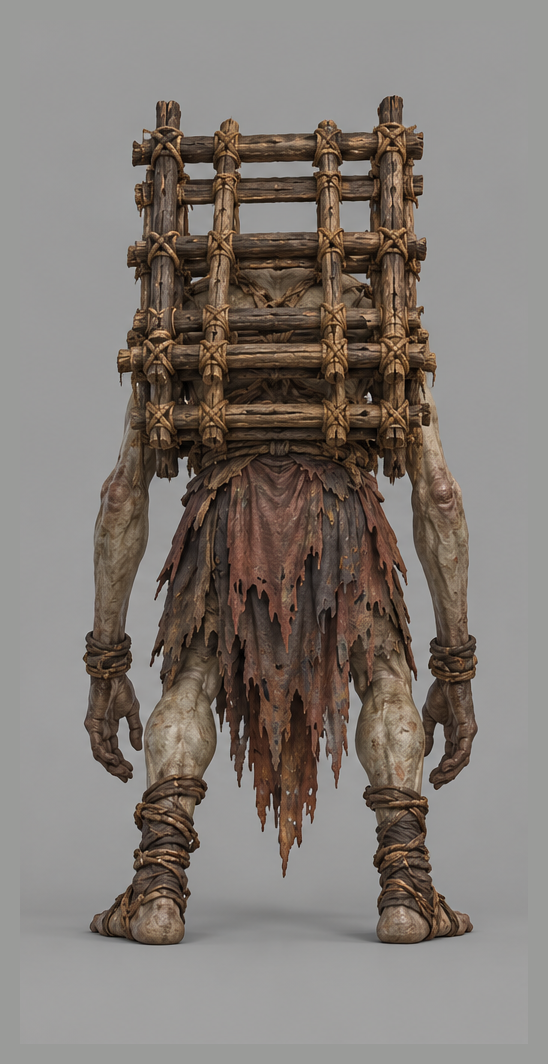
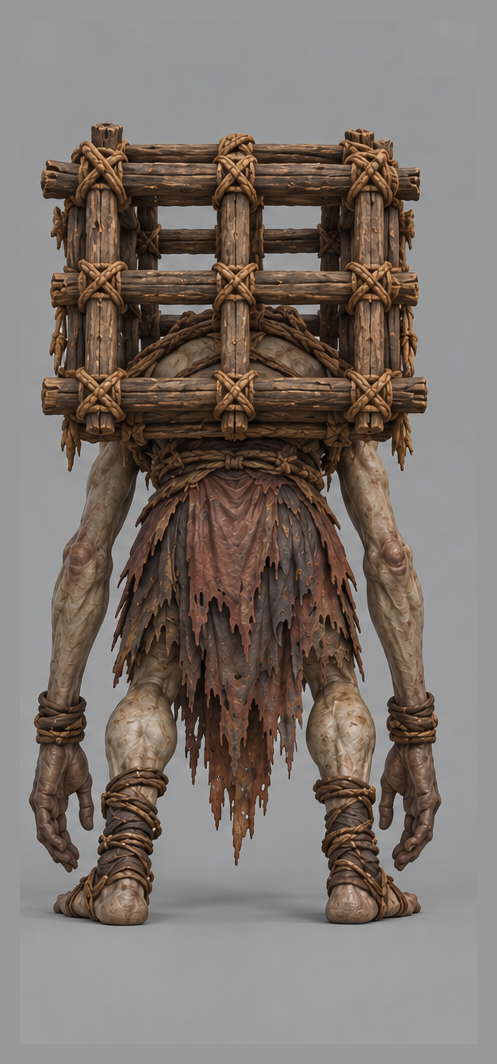
fix(art): revise carrier boss silhouette

diff --git a/tools/art/concept_generated_manifest.py b/tools/art/concept_generated_manifest.py
@@ -13,6 +13,7 @@ PANEL_EDGES = {
     "siege/tianchao/trebuchet": [0, 477, 1078, 1536],
     "siege/tianchao/nest-of-bees": [0, 561, 1213, 1774],
     "zombies/03-hound": [0, 469, 1413, 1881],
+    "zombies/07-carrier": [0, 510, 1075, 1536],
 }
 
 

diff --git a/art/concepts/2026-09-30-turnarounds/CARRIER-REVISION.md b/art/concepts/2026-09-30-turnarounds/CARRIER-REVISION.md
@@ -1,0 +1,9 @@
+# 投尸巨尸修订 · 2026-09-30
+
+使用内置 image_gen 编辑已有三视图，非 CLI。编辑输入是 Git 提交 `4ee1e74` 中的 `zombies--07-carrier.png`，不是重画其他六种僵尸；当前同名文件已覆盖为新版。
+
+用户要求：姿态比旧版更佝偻、手臂更长、长方形背笼改成正方形。保留原有肤色、衣物、长发小头、麻绳与木材风格。背笼仍为空，不把被投掷的小僵尸融合进底模。
+
+完整实际提示词已更新到 [provenance.json](provenance.json) 的 `zombies/07-carrier` 记录。该记录的 `reference` 是原始角色设计参考；本次工具的直接编辑输入为上面指定的历史三视图。
+
+交付为 [正面](../tripo/zombies/07-carrier/front.png)、[侧面](../tripo/zombies/07-carrier/side.png)、[背面](../tripo/zombies/07-carrier/back.png) 三张独立 PNG。采用不等宽裁切边界 0／510／1075／1536，避免侧面前伸的头部被三等分裁切切掉。原合并图仅作生成底稿。

diff --git a/art/concepts/tripo/README.md b/art/concepts/tripo/README.md
@@ -41,7 +41,7 @@
 | 头槌巨尸 | [06-headram](zombies/06-headram/) |
 | 背负投尸巨尸 | [07-carrier](zombies/07-carrier/) |
 
-头槌巨尸保留厚额骨的撞墙轮廓，不是手持锤子的怪物。投尸巨尸使用小头、长臂与空木架；被投掷的小僵尸应复用独立普通僵尸模型，在 Unity 中挂载，避免生成时把多具身体融为一体。
+头槌巨尸保留厚额骨的撞墙轮廓，不是手持锤子的怪物。投尸巨尸于 2026-09-30 再修订：躯干更前倾佝偻、手臂加长至接近脚踝、背笼改为宽高接近 1:1 的正方形木笼，保留小头与长发。新版已覆盖原正／侧／背文件，不另留旧版供上传；旧版可从 Git 提交 `4ee1e74` 恢复。被投掷的小僵尸应复用独立普通僵尸模型，在 Unity 中挂载，避免生成时把多具身体融为一体。
 
 ### 工程器械：两国六种，各三张
 
